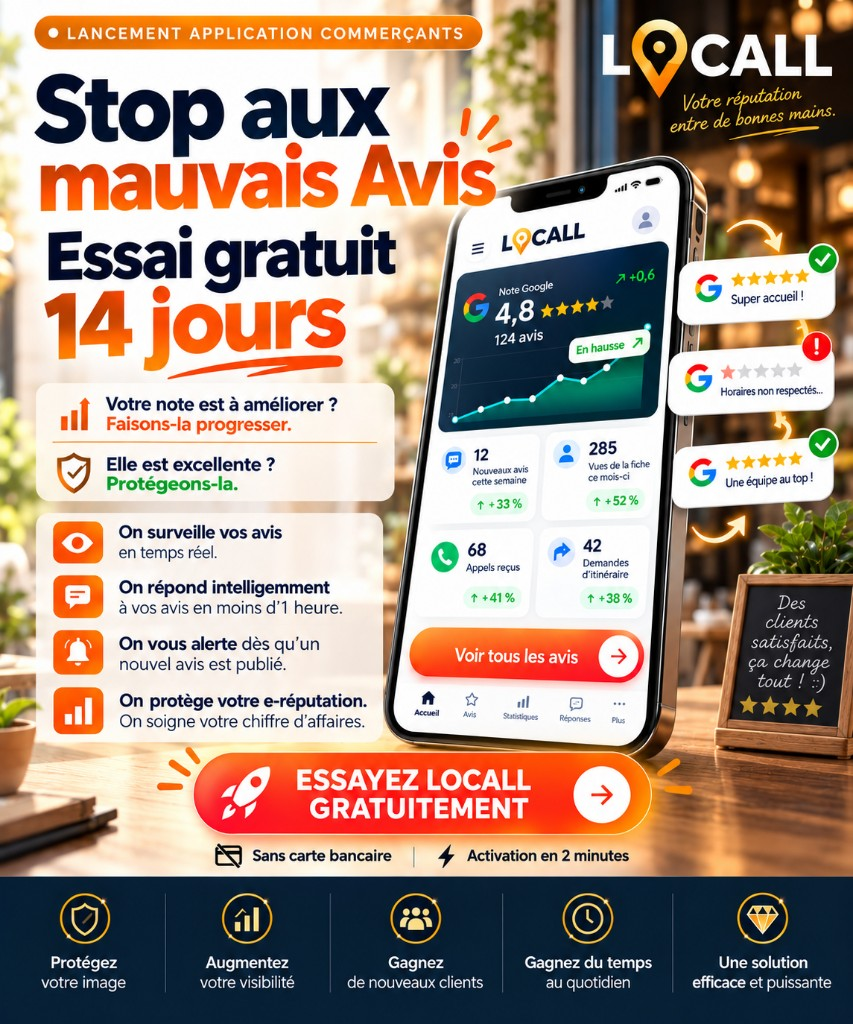
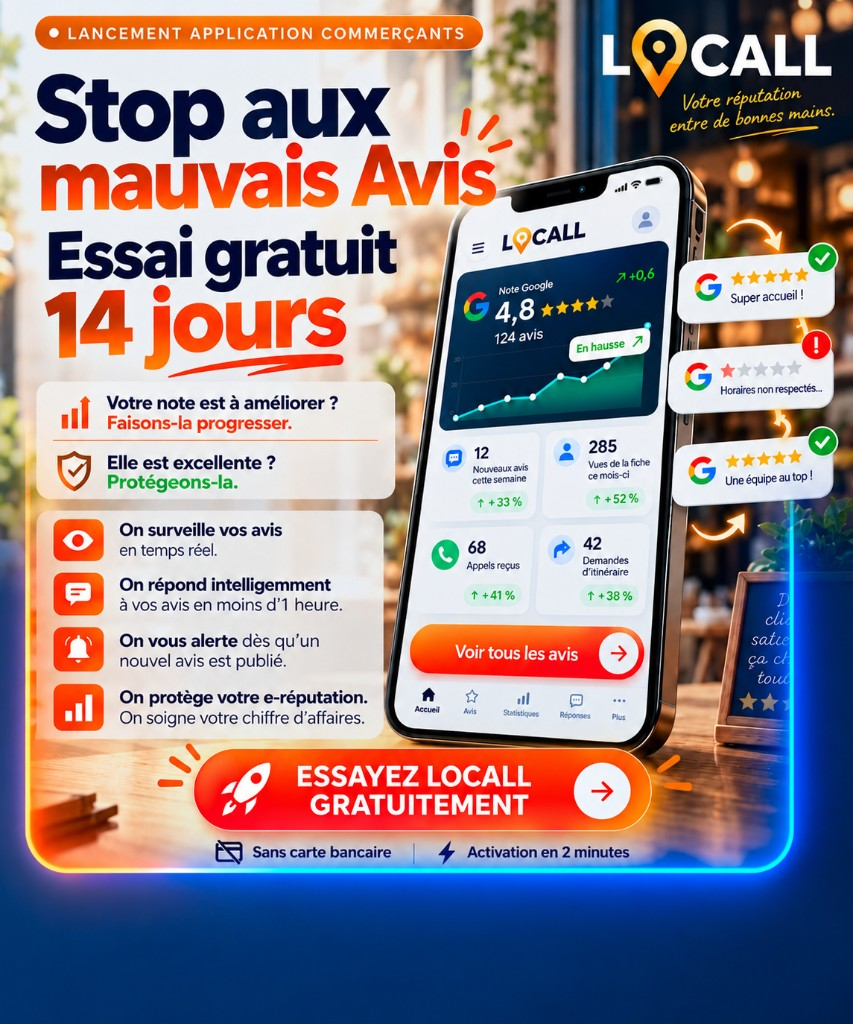
feat: affiche fluo, bandes navy et libellé SEO à l'inscription.

diff --git a/app/page.tsx b/app/page.tsx
@@ -10,7 +10,7 @@ const ENGAGEMENTS = [
 
 export default function Home() {
   return (
-    <div className="flex min-h-dvh flex-col bg-background text-foreground">
+    <div className="flex min-h-dvh flex-col bg-[#0A192F] text-foreground">
       <header className="bg-locall-navy text-white">
         <div className="mx-auto flex max-w-5xl flex-col gap-1 px-4 py-5 sm:flex-row sm:items-center sm:justify-between">
           <div>
@@ -30,12 +30,15 @@ export default function Home() {
         </div>
       </header>
 
-      <main className="w-full">
-        <Link href="/inscription" className="block leading-none">
+      <main className="w-full bg-gradient-to-b from-[#0D1B2A] to-[#0A192F]">
+        <Link
+          href="/inscription"
+          className="mx-auto block w-fit max-w-full leading-none"
+        >
           <img
-            src="/stop-aux-mauvais-avis-locall.jpg"
+            src="/stop-aux-mauvais-avis-locall.jpg?v=fluo"
             alt="Stop aux mauvais avis — Activez votre essai LOCALL"
-            className="block h-auto w-full"
+            className="mx-auto block h-auto w-auto max-w-full"
           />
         </Link>
       </main>

diff --git a/app/inscription/inscription-form.tsx b/app/inscription/inscription-form.tsx
@@ -177,8 +177,9 @@ export function InscriptionForm() {
                 className="mt-1 accent-locall-orange"
               />
               <span>
-                Activer la réponse automatique SEO pour vos avis 4/5 et 5/5
-                Google (Option offerte)
+                Activer maintenant (ou plus tard dans votre tableau de bord) la
+                réponse automatique SEO pour vos avis 4/5 et 5/5 Google avec des
+                mots-clés spécifiques à votre établissement (Option offerte).
               </span>
             </label>
             <button
